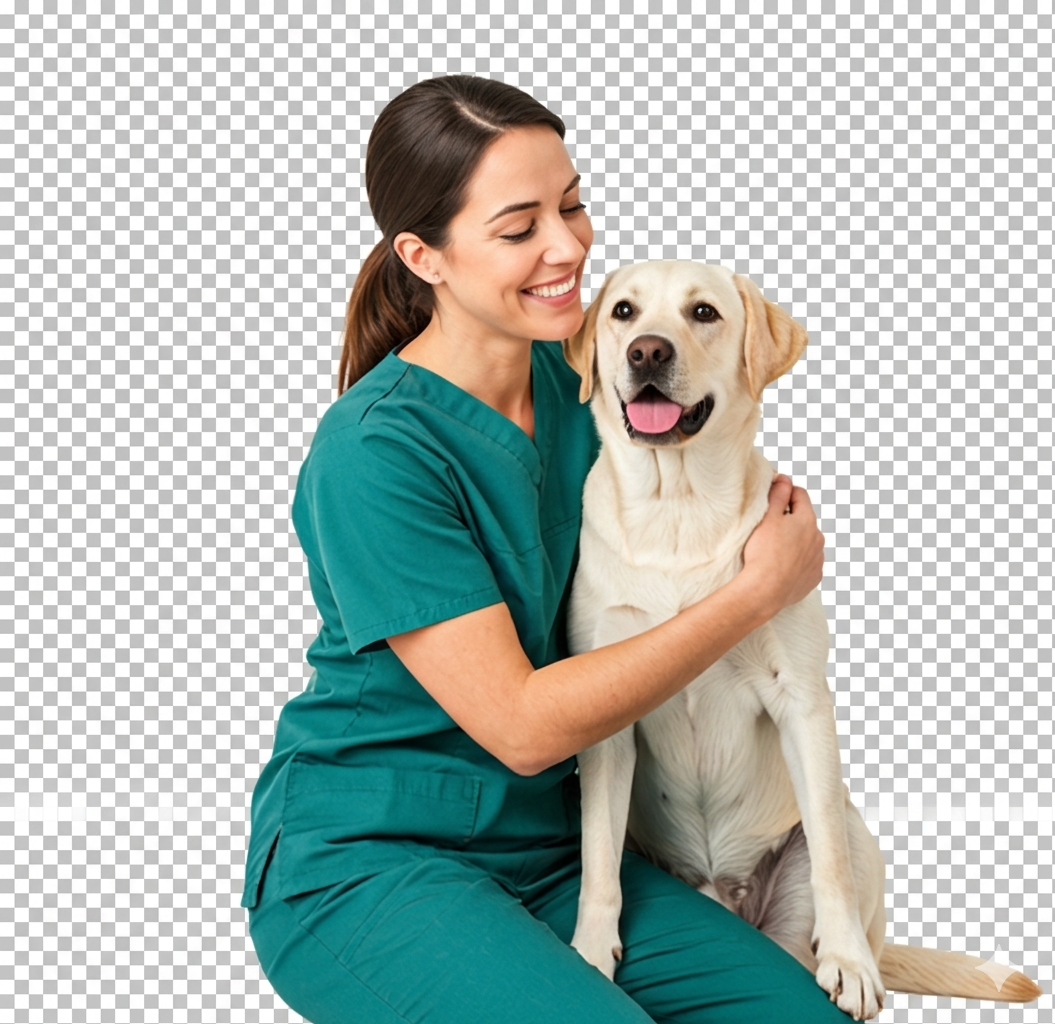
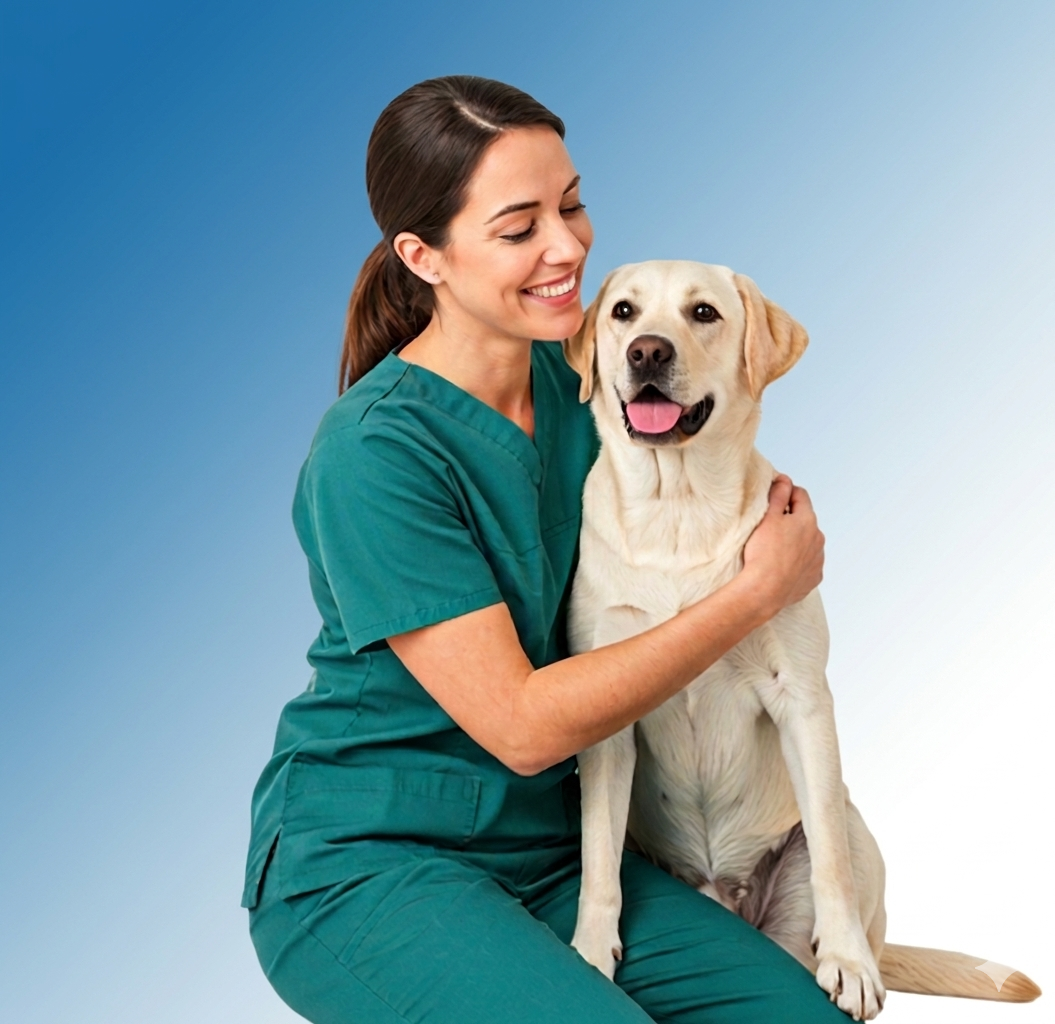
feat: add real images and polish Hero, PetCategories, Footer components

diff --git a/src/data/site.ts b/src/data/site.ts
@@ -2,9 +2,9 @@ export const site = {
   name: "Almavet Jerez",
   tagline: "Centro Veterinario",
   // TODO: confirm real phone number
-  phone: "956 XX XX XX",
+  phone: "+34 622 576 189",
   // TODO: confirm real phone number (tel: href format, E.164)
-  phoneTel: "+34956000000",
+  phoneTel: "+34 622 576 189",
   // TODO: confirm real email address
   email: "info@almavetjerez.com",
   address: {
@@ -47,7 +47,7 @@ export const site = {
     title: "Especialistas en cada miembro de la familia",
     description:
       "Desde los más pequeños hasta los más juguetones, nuestro equipo está preparado para brindar el mejor cuidado a perros, gatos, aves y exóticos.",
-    imagePath: "/images/pets-group.svg",
+    imagePath: "/images/animals.png",
     imageAlt: "Dos perros y un gato sentados juntos",
   },
   servicesSection: {
@@ -56,7 +56,7 @@ export const site = {
   },
   locationSection: {
     title: "Visítanos en Jerez",
-    imagePath: "/images/clinic-exterior.svg",
+    imagePath: "/images/clinic-exterior.jpg",
     imageAlt: "Exterior de la clínica Almavet Jerez",
     mapsUrl:
       "https://www.google.com/maps/search/?api=1&query=Almavet+Jerez+de+la+Frontera",
